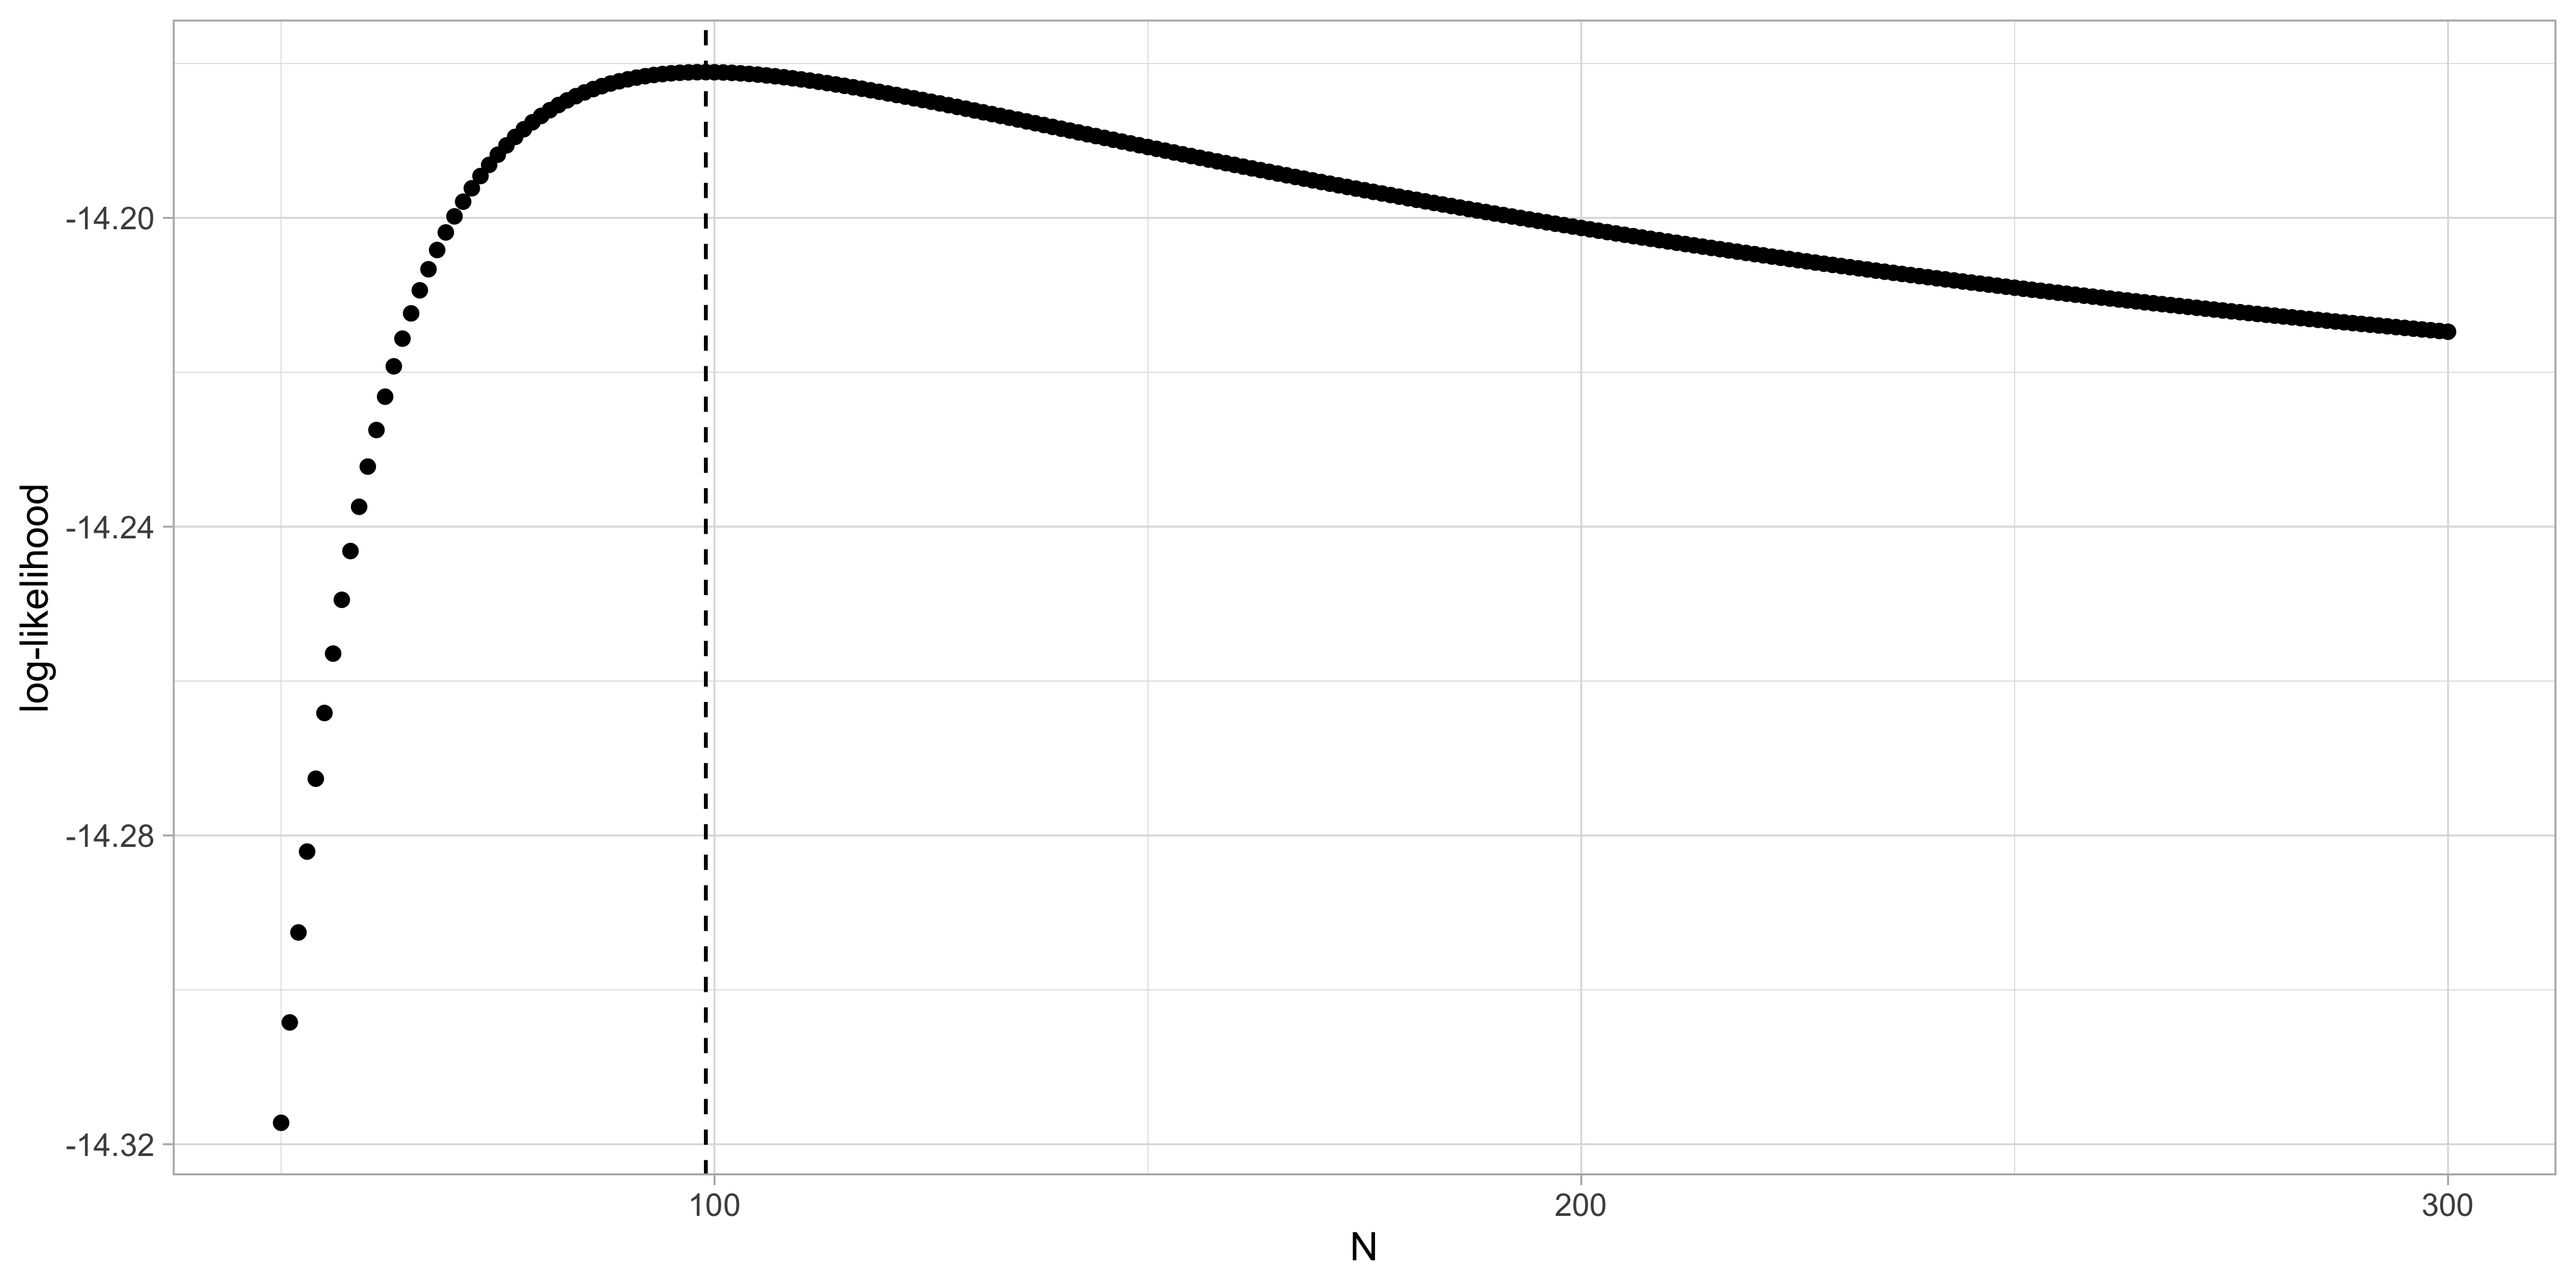
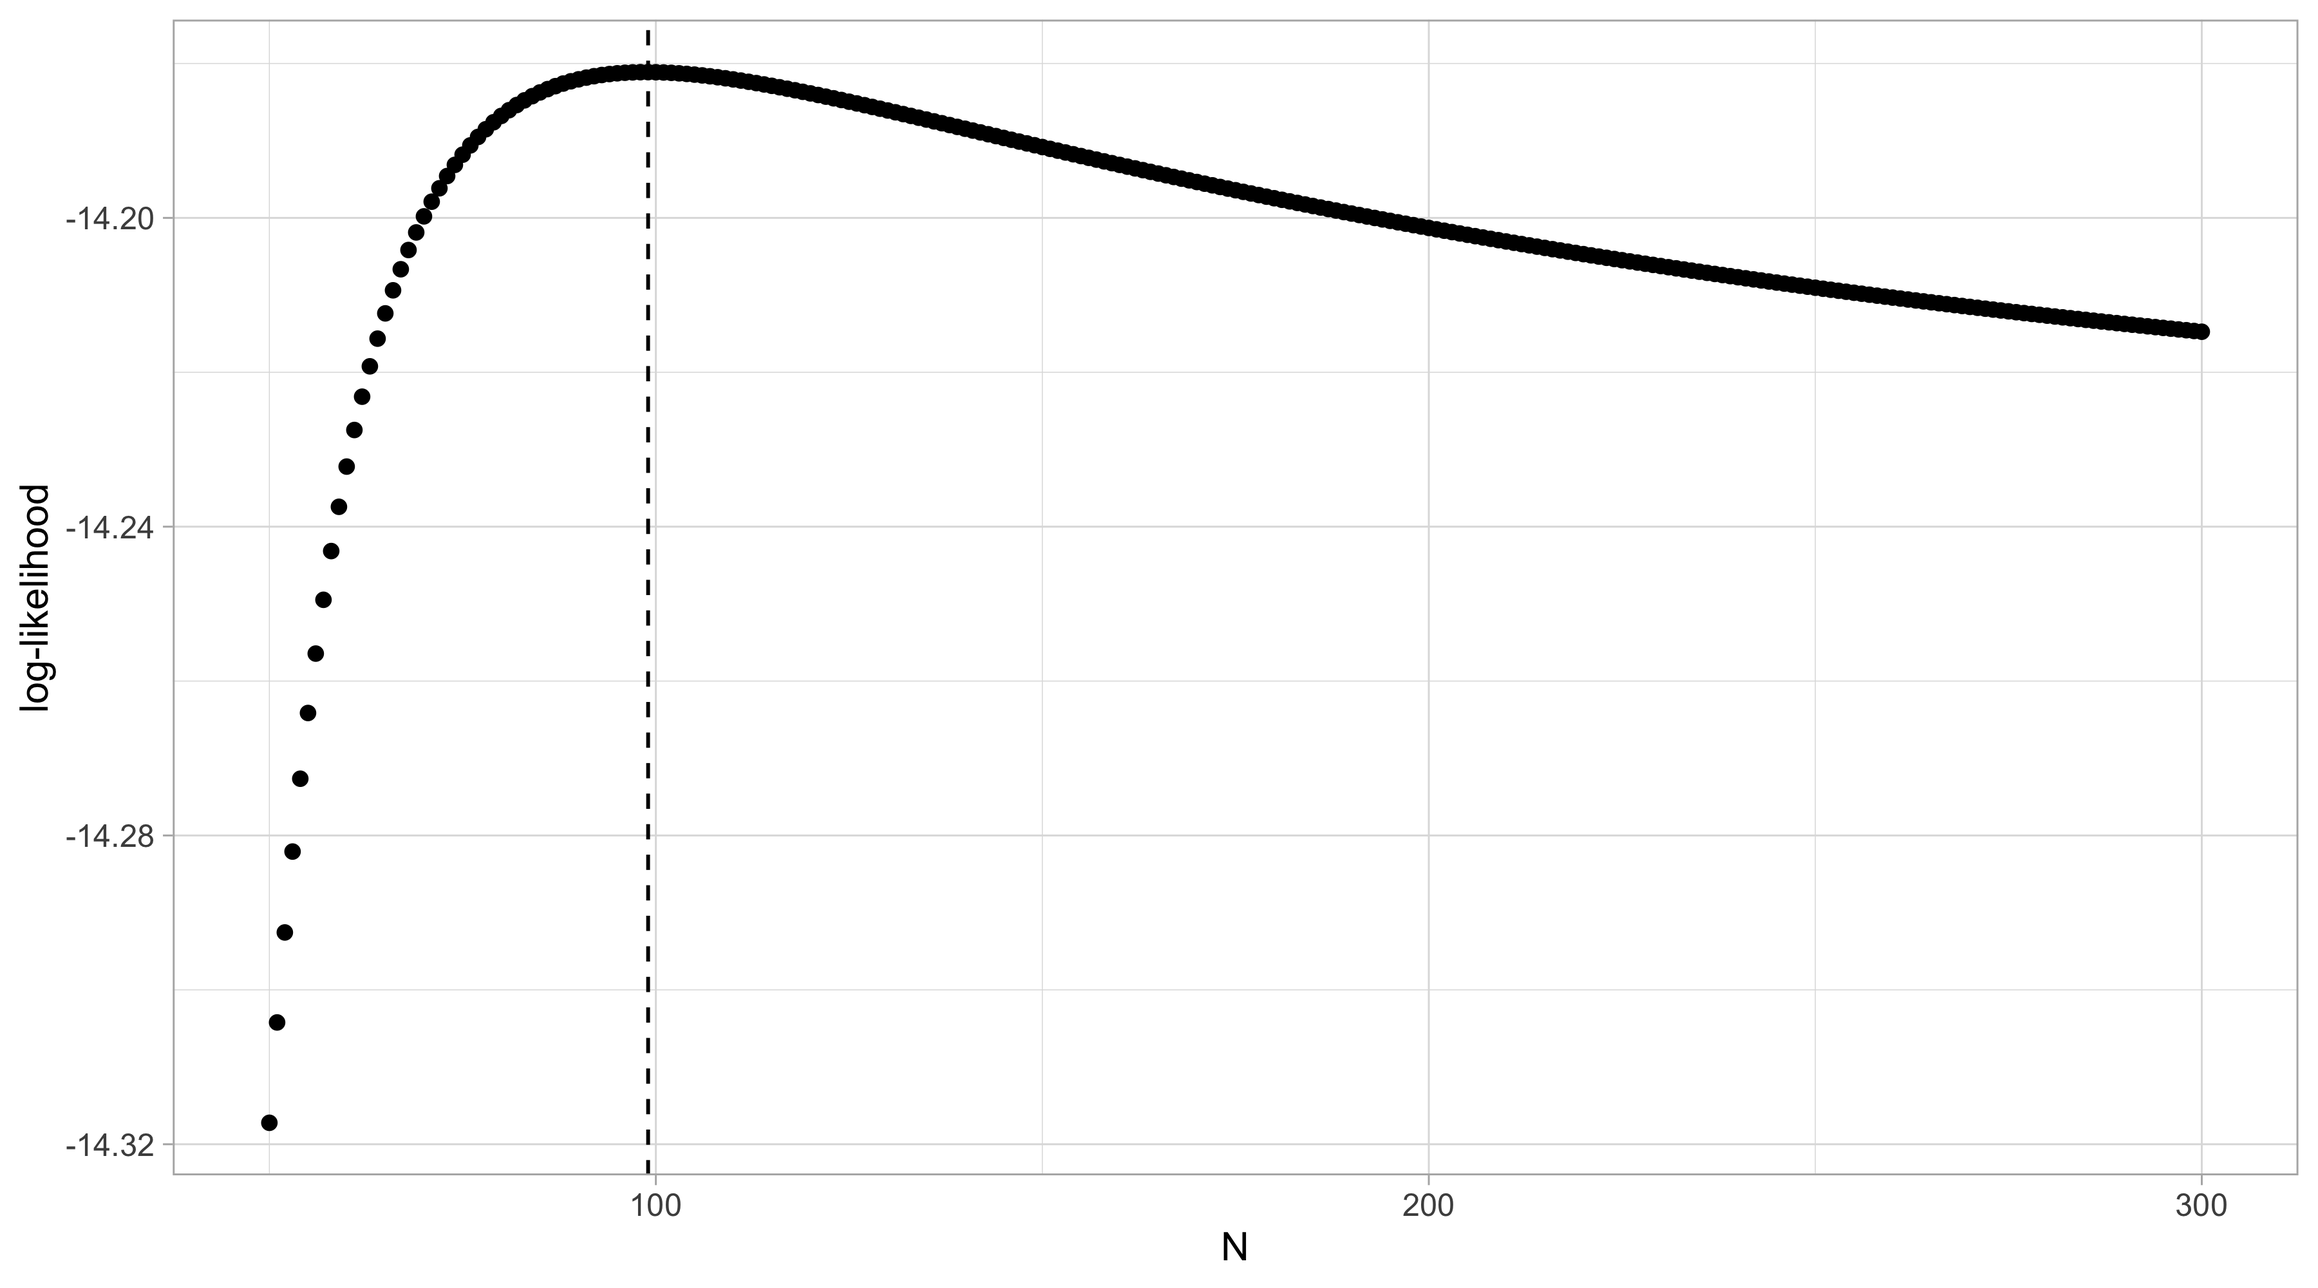
asdasd

diff --git a/slides/un_A_slides.html b/slides/un_A_slides.html
@@ -632,7 +632,7 @@ L(\hat{N}) \ge L(\hat{N} - 1), \qquad L(\hat{N} + 1) &lt; L(\hat{N}).
 <li>The <span class="orange">method of moments</span> estimator gives <span class="math inline">\hat{N}_\text{MM}</span> = 102 (rounded to the closest integer) and <span class="math inline">\hat{p}_\text{MM}</span> = 0.21. The <span class="blue">maximum likelihood</span>, instead, gives <span class="math inline">\hat{N}_\text{ML}</span> = 99 and <span class="math inline">\hat{p}_\text{MLE}</span> = 0.22.</li>
 </ul>
 
-<img data-src="un_A_files/figure-revealjs/unnamed-chunk-7-1.png" class="quarto-figure quarto-figure-center r-stretch" width="2000"><ul>
+<img data-src="un_A_files/figure-revealjs/unnamed-chunk-7-1.png" class="quarto-figure quarto-figure-center r-stretch" width="1800"><ul>
 <li>If we replace <span class="math inline">27</span> with a <span class="math inline">28</span>, we obtain drastically different estimates, namely <span class="math inline">\hat{N}_\text{MM} =  195</span> and <span class="math inline">\hat{N}_\text{ML} = 191</span>, demonstrating a <span class="orange">large</span> amount of <span class="orange">variability</span>.</li>
 </ul>
 </section>

diff --git a/slides/un_A.html b/slides/un_A.html
@@ -529,7 +529,7 @@ L(\hat{N}) \ge L(\hat{N} - 1), \qquad L(\hat{N} + 1) &lt; L(\hat{N}).
 <div class="cell-output-display">
 <div class="quarto-figure quarto-figure-center">
 <figure class="figure">
-<p><img src="un_A_files/figure-html/unnamed-chunk-7-1.png" class="img-fluid quarto-figure quarto-figure-center figure-img" width="1050"></p>
+<p><img src="un_A_files/figure-html/unnamed-chunk-7-1.png" class="img-fluid quarto-figure quarto-figure-center figure-img" width="1350"></p>
 </figure>
 </div>
 </div>
